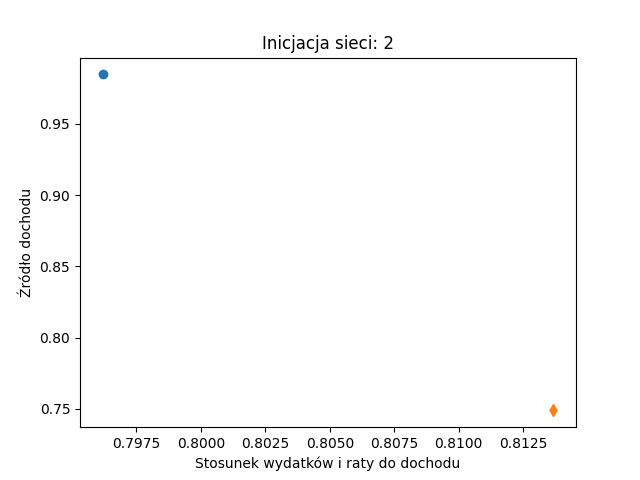
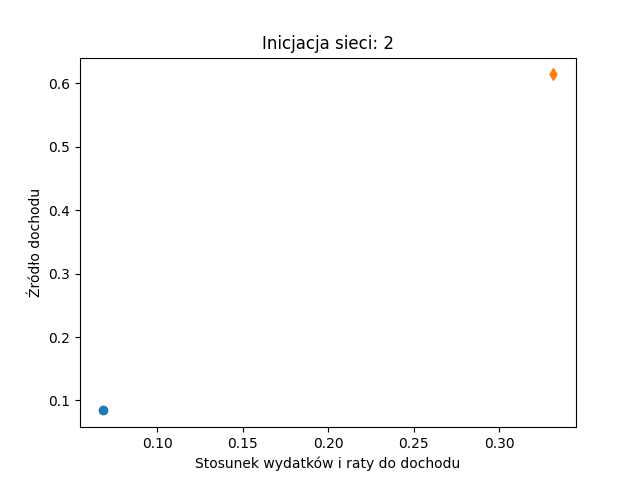
Trening metodą WTM

diff --git a/som.py b/som.py
@@ -30,14 +30,19 @@ class SOM:
     def __init__(self, liczba_neuronow, waga=0.2):
         self.liczba_neuronow = liczba_neuronow
         self.waga = waga
+        self.waga_s = waga / 10
         for i in range(self.liczba_neuronow):
             self.neuronki.append(Neuron(tuple(numpy.random.sample(2)), str(i)))
-        
+            # self.neuronki.append(Neuron((0,0), str(i)))
+
     def trening(self, dane, iteracji=100):
         for i in range(iteracji):
             for sygnal in dane:
                 najblizszy = self.znajdz_najblizszy(sygnal)
+                somsiady = self.znajdz_somsasiadow(neuron=najblizszy, odleglosc=(iteracji-i/iteracji))
                 najblizszy.skoryguj(sygnal, waga=self.waga)
+                for somsiad in somsiady:
+                    somsiad.skoryguj(sygnal, waga=self.waga_s)
     
     def znajdz_najblizszy(self, sygnal):
         odleglosci = []
@@ -46,23 +51,30 @@ class SOM:
         najblizszy, _ = min(odleglosci, key=lambda x: x[1])
         return najblizszy
 
+    def znajdz_somsasiadow(self, neuron, odleglosc):
+        somsiady = []
+        for n in self.neuronki:
+            if n.odleglosc(neuron) < odleglosc:
+                somsiady.append(n)
+        return somsiady
+
     def oznacz(self, sygnal, etykieta):
         najblizszy = self.znajdz_najblizszy(sygnal)
         najblizszy.etykieta = etykieta
 
 
-zrodla = [1, .75, .50, .0]
+# zrodla = [1, .75, .50, .0]
 
 
-def dane_treningowe(limit=100):
-    dane = []
-    for d in range(3000, 15000, 3000):
-        for w in range(1500, int(d * .55), 500):
-            for z in range(0, 4):
-                t = (w / d, zrodla[z],)
-                print(t)
-                dane.append(t)
-    return dane
+# def dane_treningowe(limit=100):
+#     dane = []
+#     for d in range(3000, 15000, 3000):
+#         for w in range(1500, int(d * .55), 500):
+#             for z in range(0, 4):
+#                 t = (w / d, zrodla[z],)
+#                 print(t)
+#                 dane.append(t)
+#     return dane
 
 
 def gen_dane_treningowe(nazwa='trening.csv'):
@@ -72,6 +84,12 @@ def gen_dane_treningowe(nazwa='trening.csv'):
         w.writeheader()
         for wiersz in dane:
             w.writerow({'Wydatki': wiersz[0], 'Dochod': wiersz[1]})
+    return dane
+
+
+def wczytaj_dane_treningowe(nazwa='trening.csv'):
+    with open(nazwa, 'r') as plik:
+        dane = [[float(v) for v in wiersz.values()] for wiersz in csv.DictReader(plik)]
     return dane
 
 
@@ -115,9 +133,9 @@ def ocena_ryzyka(som):
 
 
 if __name__ == '__main__':
-    DANE = gen_dane_treningowe()
-    print(DANE)
-
+    # DANE = gen_dane_treningowe()
+    DANE = wczytaj_dane_treningowe()
+    
     som = SOM(liczba_neuronow=2)
     rysuj_wykres(som, "Inicjacja sieci: %s" % len(som.neuronki), 'som_init.png')
     som.trening(dane=DANE, iteracji=10000)
